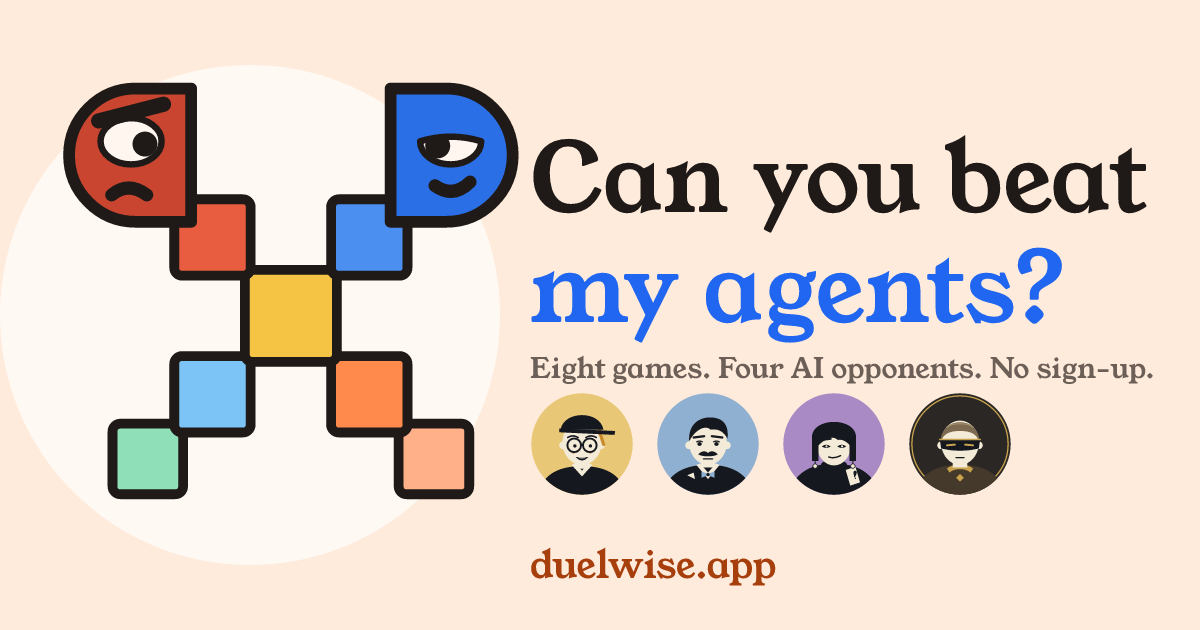
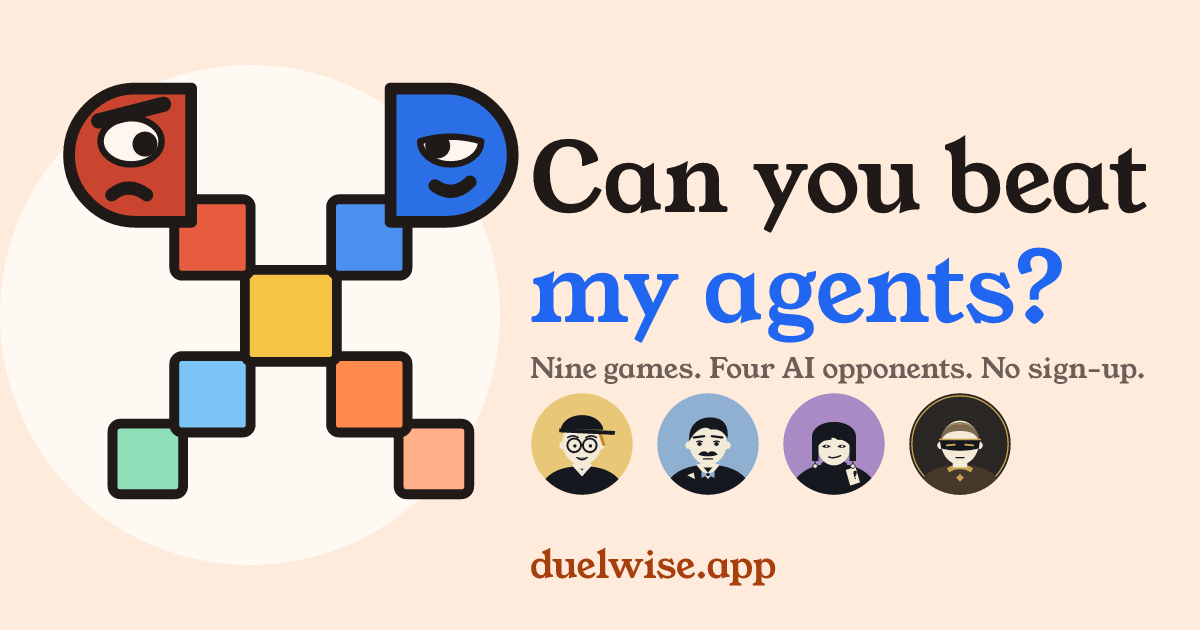
task TY-p1: nine games: product test, link-preview image regenerated with Nine, README alt text

Changed region(s): [[0.4317, 0.5429, 0.9558, 0.6333]]

diff --git a/packages/core/src/product.test.ts b/packages/core/src/product.test.ts
@@ -2,7 +2,7 @@ import { expect, test } from 'bun:test'
 import { PRODUCT, gameCountWord } from './product'
 
 test('tagline is exact', () => {
-  expect(PRODUCT.tagline).toBe('Eight games. Learning from you, starting with Four in a Row. Beat them if you can.')
+  expect(PRODUCT.tagline).toBe('Nine games. Learning from you, starting with Four in a Row. Beat them if you can.')
 })
 
 test('tagline count word follows the game count', () => {
@@ -17,15 +17,16 @@ test('tagline count word follows the game count', () => {
   expect(() => gameCountWord(11)).toThrow()
 })
 
-test('eight games with display name and slug, no enabled flag', () => {
+test('nine games with display name and slug, no enabled flag', () => {
   const ids = Object.keys(PRODUCT.games).sort()
-  expect(ids).toEqual(['arena', 'chess', 'fighter', 'fleet', 'four', 'holdem', 'slack', 'word'])
+  expect(ids).toEqual(['arena', 'chess', 'fighter', 'fleet', 'four', 'holdem', 'penalty', 'slack', 'word'])
   for (const g of Object.values(PRODUCT.games)) {
     expect(g.displayName.length).toBeGreaterThan(0)
     expect(g.slug).toMatch(/^[a-z0-9-]+$/)
     expect('enabled' in g).toBe(false)
   }
   expect(PRODUCT.games.chess.displayName).toBe('Chess')
+  expect(PRODUCT.games.penalty).toMatchObject({ displayName: 'Twelve Yards', slug: 'twelve-yards', kind: 'turn', devices: 'all' })
   expect(PRODUCT.games.slack).toMatchObject({ displayName: 'Crosscurrent', slug: 'crosscurrent', kind: 'turn', devices: 'all' })
   expect(PRODUCT.games.four.displayName).toBe('Four in a Row')
   expect(PRODUCT.games.holdem.displayName).toBe("Heads-Up Hold'em")

diff --git a/apps/web/e2e/landing.spec.ts b/apps/web/e2e/landing.spec.ts
@@ -294,7 +294,7 @@ test.describe('link preview tags', () => {
   test('the site shares an absolute 1200x630 image and the truthful copy', async ({ page, request }) => {
     await page.goto('/')
     const content = (sel: string) => page.locator(sel).getAttribute('content')
-    expect(await content('meta[property="og:image"]')).toBe('https://duelwise.app/og/duelwise-og.png?v=3')
+    expect(await content('meta[property="og:image"]')).toBe('https://duelwise.app/og/duelwise-og.png?v=4')
     expect(await content('meta[property="og:image:width"]')).toBe('1200')
     expect(await content('meta[property="og:image:height"]')).toBe('630')
     expect(await content('meta[property="og:title"]')).toBe('Duelwise: Can you beat my agents?')

diff --git a/apps/web/src/lib/site-meta.ts b/apps/web/src/lib/site-meta.ts
@@ -4,7 +4,7 @@ import { PRODUCT, gameCountWord } from '@duelwise/core/src/product'
 export const SITE_ORIGIN = 'https://duelwise.app'
 export const SHARE_TITLE = `${PRODUCT.name}: Can you beat my agents?`
 export const SHARE_DESCRIPTION = `${gameCountWord()} games against four AI opponents, from easy Pip to champion Sable. No account needed.`
-const SHARE_IMAGE = `${SITE_ORIGIN}/og/duelwise-og.png?v=3`
+const SHARE_IMAGE = `${SITE_ORIGIN}/og/duelwise-og.png?v=4`
 const SHARE_ALT = 'Duelwise: Can you beat my agents? The Duelwise mark beside the four AI opponents, Pip, Marlow, Vesper and Sable.'
 
 /** The home page's address; other routes leave og:url unset rather than point at the wrong page. */

diff --git a/README.md b/README.md
@@ -1,6 +1,6 @@
 # Duelwise
 
-[![Duelwise: Can you beat my agents? Eight games, four AI opponents, no sign-up.](apps/web/public/og/duelwise-og.png)](https://duelwise.app)
+[![Duelwise: Can you beat my agents? Nine games, four AI opponents, no sign-up.](apps/web/public/og/duelwise-og.png)](https://duelwise.app)
 
 **Can you beat my agents?**
 
